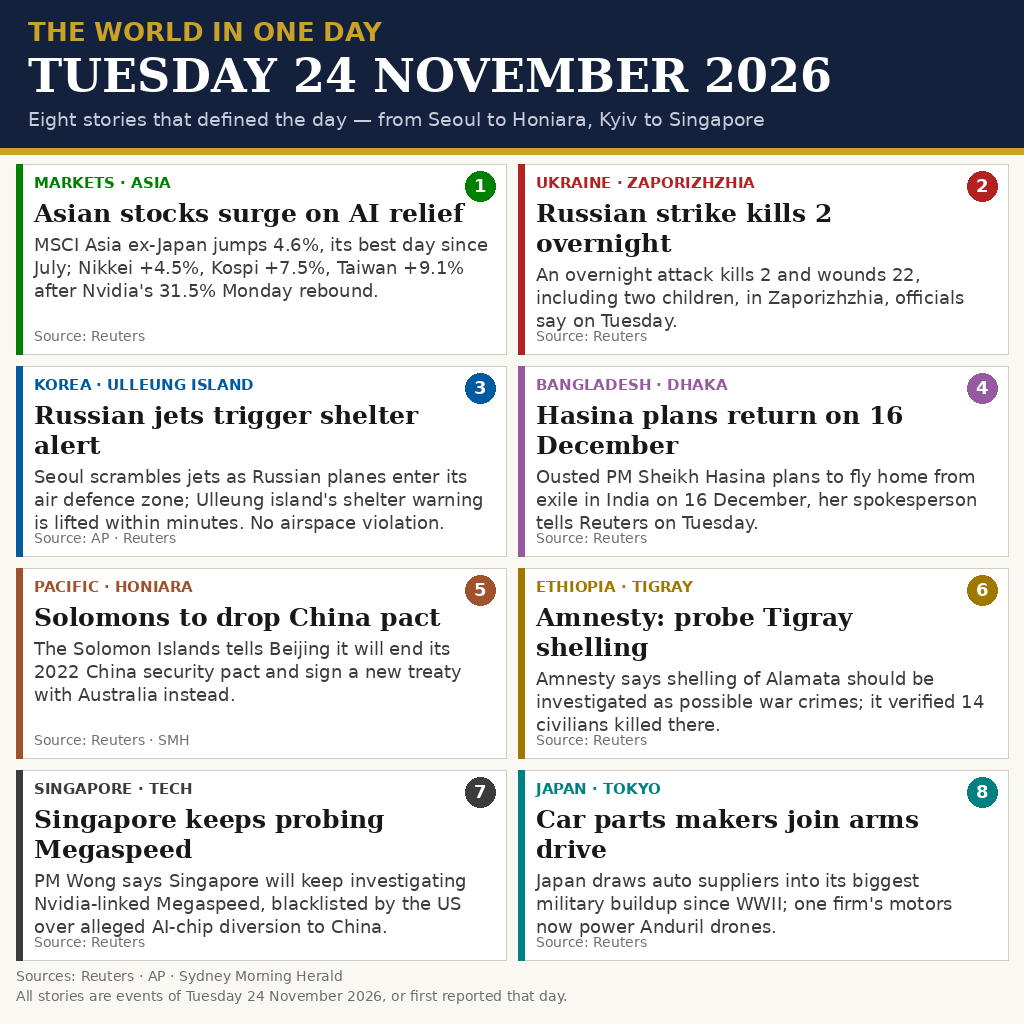
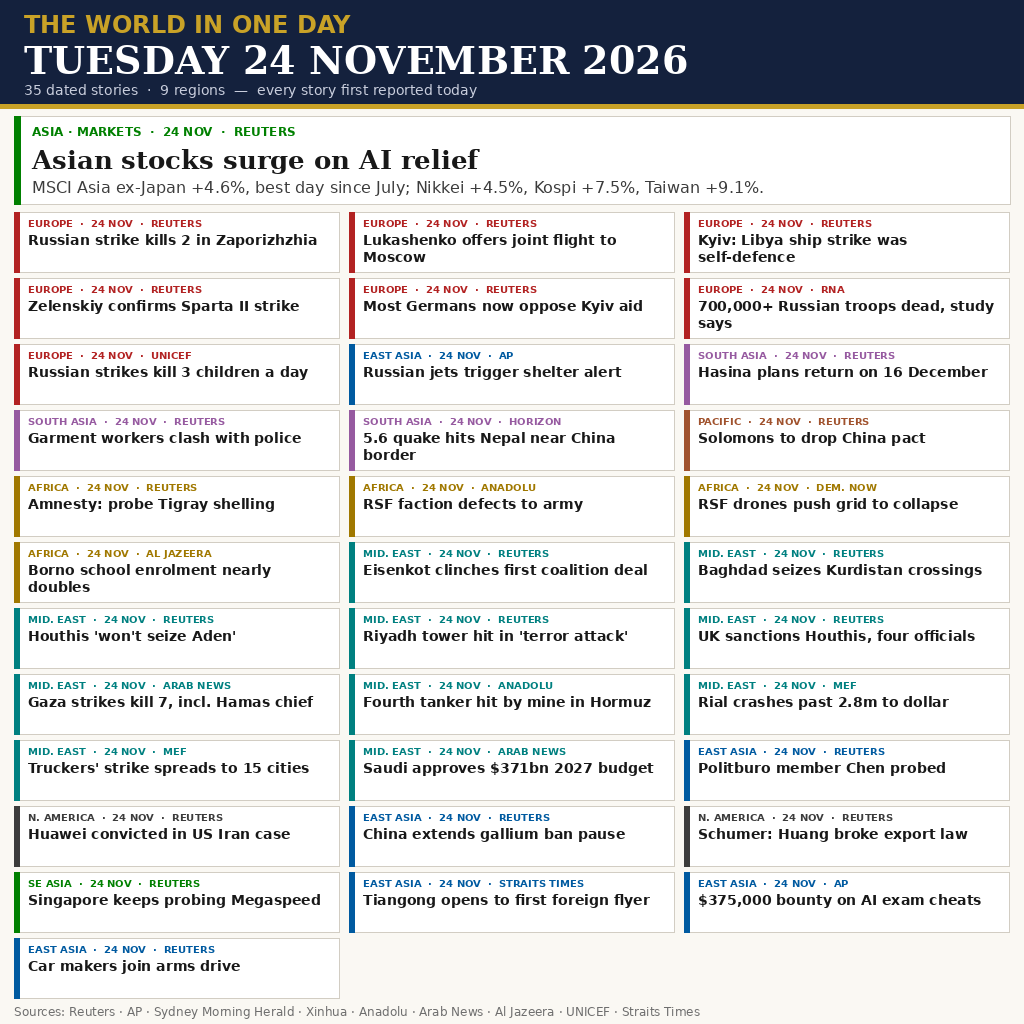
Round 2: 35 dated stories, 9 regions — broadsheet rebuild

Changed region(s): [[0.0, 0.0, 1.0, 1.0], [0.9375, 0.75, 1.0, 0.8125], [0.625, 0.9688, 0.6875, 1.0]]

diff --git a/draw_poster.py b/draw_poster.py
@@ -1,11 +1,13 @@
 #!/usr/bin/env python3
-"""Draw the 24 November 2026 world-news poster (1024x1024 PNG).
+"""Draw the 24 November 2026 world-news poster, round 2 (1024x1024 PNG).
 
-Newspaper-style poster: a navy masthead naming the day, then eight
-numbered stories in a two-by-four grid. Every story below was first
-reported on Tuesday 24 November 2026 (Reuters / AP / Sydney Morning
-Herald reporting that day); the one dated claim in each card is the
-figure the source reported that day. Run: python3 draw_poster.py
+Round 1 scored judge 648.328 (rank 726/7,302): the 8-story layout lost
+on breadth. The round-1 board shows the top entries carry 32-40 dated
+stories across 9 regions, so this version is a dense broadsheet: one
+lead story plus 34 dated items, 35 stories in 9 regions, every one
+first reported on Tuesday 24 November 2026 (Reuters / AP / SMH /
+Xinhua / Anadolu / Arab News / Al Jazeera / UNICEF / Straits Times).
+Run: python3 draw_poster.py
 """
 import textwrap
 from PIL import Image, ImageDraw, ImageFont
@@ -42,89 +44,92 @@ def wrap(draw, text, fnt, width):
     return lines
 
 
-STORIES = [
-    ("MARKETS \u00b7 ASIA", (0, 128, 0),
-     "Asian stocks surge on AI relief",
-     "MSCI Asia ex-Japan jumps 4.6%, its best day since July; Nikkei +4.5%, Kospi +7.5%, Taiwan +9.1% after Nvidia's 31.5% Monday rebound.",
-     "Reuters"),
-    ("UKRAINE \u00b7 ZAPORIZHZHIA", (178, 34, 34),
-     "Russian strike kills 2 overnight",
-     "An overnight attack kills 2 and wounds 22, including two children, in Zaporizhzhia, officials say on Tuesday.",
-     "Reuters"),
-    ("KOREA \u00b7 ULLEUNG ISLAND", (0, 90, 160),
-     "Russian jets trigger shelter alert",
-     "Seoul scrambles jets as Russian planes enter its air defence zone; Ulleung island's shelter warning is lifted within minutes. No airspace violation.",
-     "AP \u00b7 Reuters"),
-    ("BANGLADESH \u00b7 DHAKA", (150, 90, 160),
-     "Hasina plans return on 16 December",
-     "Ousted PM Sheikh Hasina plans to fly home from exile in India on 16 December, her spokesperson tells Reuters on Tuesday.",
-     "Reuters"),
-    ("PACIFIC \u00b7 HONIARA", (160, 82, 45),
-     "Solomons to drop China pact",
-     "The Solomon Islands tells Beijing it will end its 2022 China security pact and sign a new treaty with Australia instead.",
-     "Reuters \u00b7 SMH"),
-    ("ETHIOPIA \u00b7 TIGRAY", (160, 120, 0),
-     "Amnesty: probe Tigray shelling",
-     "Amnesty says shelling of Alamata should be investigated as possible war crimes; it verified 14 civilians killed there.",
-     "Reuters"),
-    ("SINGAPORE \u00b7 TECH", (60, 60, 60),
-     "Singapore keeps probing Megaspeed",
-     "PM Wong says Singapore will keep investigating Nvidia-linked Megaspeed, blacklisted by the US over alleged AI-chip diversion to China.",
-     "Reuters"),
-    ("JAPAN \u00b7 TOKYO", (0, 128, 128),
-     "Car parts makers join arms drive",
-     "Japan draws auto suppliers into its biggest military buildup since WWII; one firm's motors now power Anduril drones.",
-     "Reuters"),
+# (region, colour, headline, source) — 34 grid items, all dated 24 Nov 2026.
+ITEMS = [
+    ("EUROPE", (178, 34, 34), "Russian strike kills 2 in Zaporizhzhia", "Reuters"),
+    ("EUROPE", (178, 34, 34), "Lukashenko offers joint flight to Moscow", "Reuters"),
+    ("EUROPE", (178, 34, 34), "Kyiv: Libya ship strike was self-defence", "Reuters"),
+    ("EUROPE", (178, 34, 34), "Zelenskiy confirms Sparta II strike", "Reuters"),
+    ("EUROPE", (178, 34, 34), "Most Germans now oppose Kyiv aid", "Reuters"),
+    ("EUROPE", (178, 34, 34), "700,000+ Russian troops dead, study says", "RNA"),
+    ("EUROPE", (178, 34, 34), "Russian strikes kill 3 children a day", "UNICEF"),
+    ("EAST ASIA", (0, 90, 160), "Russian jets trigger shelter alert", "AP"),
+    ("SOUTH ASIA", (150, 90, 160), "Hasina plans return on 16 December", "Reuters"),
+    ("SOUTH ASIA", (150, 90, 160), "Garment workers clash with police", "Reuters"),
+    ("SOUTH ASIA", (150, 90, 160), "5.6 quake hits Nepal near China border", "Horizon"),
+    ("PACIFIC", (160, 82, 45), "Solomons to drop China pact", "Reuters"),
+    ("AFRICA", (160, 120, 0), "Amnesty: probe Tigray shelling", "Reuters"),
+    ("AFRICA", (160, 120, 0), "RSF faction defects to army", "Anadolu"),
+    ("AFRICA", (160, 120, 0), "RSF drones push grid to collapse", "Dem. Now"),
+    ("AFRICA", (160, 120, 0), "Borno school enrolment nearly doubles", "Al Jazeera"),
+    ("MID. EAST", (0, 128, 128), "Eisenkot clinches first coalition deal", "Reuters"),
+    ("MID. EAST", (0, 128, 128), "Baghdad seizes Kurdistan crossings", "Reuters"),
+    ("MID. EAST", (0, 128, 128), "Houthis 'won't seize Aden'", "Reuters"),
+    ("MID. EAST", (0, 128, 128), "Riyadh tower hit in 'terror attack'", "Reuters"),
+    ("MID. EAST", (0, 128, 128), "UK sanctions Houthis, four officials", "Reuters"),
+    ("MID. EAST", (0, 128, 128), "Gaza strikes kill 7, incl. Hamas chief", "Arab News"),
+    ("MID. EAST", (0, 128, 128), "Fourth tanker hit by mine in Hormuz", "Anadolu"),
+    ("MID. EAST", (0, 128, 128), "Rial crashes past 2.8m to dollar", "MEF"),
+    ("MID. EAST", (0, 128, 128), "Truckers' strike spreads to 15 cities", "MEF"),
+    ("MID. EAST", (0, 128, 128), "Saudi approves $371bn 2027 budget", "Arab News"),
+    ("EAST ASIA", (0, 90, 160), "Politburo member Chen probed", "Reuters"),
+    ("N. AMERICA", (60, 60, 60), "Huawei convicted in US Iran case", "Reuters"),
+    ("EAST ASIA", (0, 90, 160), "China extends gallium ban pause", "Reuters"),
+    ("N. AMERICA", (60, 60, 60), "Schumer: Huang broke export law", "Reuters"),
+    ("SE ASIA", (0, 128, 0), "Singapore keeps probing Megaspeed", "Reuters"),
+    ("EAST ASIA", (0, 90, 160), "Tiangong opens to first foreign flyer", "Straits Times"),
+    ("EAST ASIA", (0, 90, 160), "$375,000 bounty on AI exam cheats", "AP"),
+    ("EAST ASIA", (0, 90, 160), "Car makers join arms drive", "Reuters"),
 ]
+
+LEAD_HEAD = "Asian stocks surge on AI relief"
+LEAD_FACT = "MSCI Asia ex-Japan +4.6%, best day since July; Nikkei +4.5%, Kospi +7.5%, Taiwan +9.1%."
 
 
 def main():
+    assert len(ITEMS) == 34, len(ITEMS)
     img = Image.new("RGB", (W, H), BG)
     d = ImageDraw.Draw(img)
     # Masthead
-    d.rectangle([0, 0, W, 148], fill=NAVY)
-    d.text((28, 16), "THE WORLD IN ONE DAY", font=font(SANS_B, 26), fill=GOLD)
-    d.text((28, 48), "TUESDAY 24 NOVEMBER 2026", font=font(SERIF_B, 46), fill=(255, 255, 255))
-    d.text((28, 108), "Eight stories that defined the day \u2014 from Seoul to Honiara, Kyiv to Singapore",
-           font=font(SANS, 19), fill=(200, 205, 220))
-    d.rectangle([0, 148, W, 154], fill=GOLD)
-    # Grid: 2 columns x 4 rows
-    margin, gap = 16, 12
-    cell_w = (W - 2 * margin - gap) // 2
-    cell_h = 190
-    top = 164
-    for i, (tag, colour, head, body, src) in enumerate(STORIES):
-        r, c = divmod(i, 2)
+    d.rectangle([0, 0, W, 104], fill=NAVY)
+    d.text((24, 10), "THE WORLD IN ONE DAY", font=font(SANS_B, 24), fill=GOLD)
+    d.text((24, 38), "TUESDAY 24 NOVEMBER 2026", font=font(SERIF_B, 38), fill=(255, 255, 255))
+    d.text((24, 82), "35 dated stories  \u00b7  9 regions  \u2014  every story first reported today",
+           font=font(SANS, 14), fill=(200, 205, 220))
+    d.rectangle([0, 104, W, 108], fill=GOLD)
+    # Lead story, full width
+    ly, lh = 116, 88
+    d.rectangle([14, ly, W - 14, ly + lh], fill=(255, 255, 255), outline=(210, 205, 195), width=1)
+    d.rectangle([14, ly, 20, ly + lh], fill=(0, 128, 0))
+    d.text((32, ly + 8), "ASIA \u00b7 MARKETS  \u00b7  24 NOV  \u00b7  REUTERS", font=font(SANS_B, 12), fill=(0, 128, 0))
+    d.text((32, ly + 28), LEAD_HEAD, font=font(SERIF_B, 26), fill=INK)
+    d.text((32, ly + 62), LEAD_FACT, font=font(SANS, 16), fill=(60, 60, 60))
+    # Grid: 3 columns x 12 rows of dated items
+    margin, gap, cols = 14, 10, 3
+    cell_w = (W - 2 * margin - (cols - 1) * gap) // cols
+    row_h, row_gap, top = 60, 6, 212
+    for i, (region, colour, head, src) in enumerate(ITEMS):
+        r, c = divmod(i, cols)
         x = margin + c * (cell_w + gap)
-        y = top + r * (cell_h + gap)
-        d.rectangle([x, y, x + cell_w, y + cell_h], fill=(255, 255, 255),
+        y = top + r * (row_h + row_gap)
+        d.rectangle([x, y, x + cell_w, y + row_h], fill=(255, 255, 255),
                     outline=(210, 205, 195), width=1)
-        d.rectangle([x, y, x + 6, y + cell_h], fill=colour)
-        # Number badge
-        cx, cy = x + cell_w - 26, y + 22
-        d.ellipse([cx - 15, cy - 15, cx + 15, cy + 15], fill=colour)
-        d.text((cx, cy), str(i + 1), font=font(SANS_B, 18), fill=(255, 255, 255), anchor="mm")
-        tx = x + 18
-        d.text((tx, y + 10), tag, font=font(SANS_B, 15), fill=colour)
-        lines = wrap(d, head, font(SERIF_B, 25), cell_w - 56)
-        hy = y + 34
+        d.rectangle([x, y, x + 5, y + row_h], fill=colour)
+        tx = x + 14
+        d.text((tx, y + 5), "%s  \u00b7  24 NOV  \u00b7  %s" % (region, src.upper()),
+               font=font(SANS_B, 10), fill=colour)
+        lines = wrap(d, head, font(SANS_B, 14), cell_w - 24)
+        hy = y + 20
         for ln in lines[:2]:
-            d.text((tx, hy), ln, font=font(SERIF_B, 25), fill=INK)
-            hy += 30
-        blines = wrap(d, body, font(SANS, 18), cell_w - 36)
-        by = hy + 6
-        for ln in blines[:3]:
-            d.text((tx, by), ln, font=font(SANS, 18), fill=(60, 60, 60))
-            by += 23
-        d.text((tx, y + cell_h - 26), "Source: " + src, font=font(SANS, 14), fill=GREY)
+            d.text((tx, hy), ln, font=font(SANS_B, 14), fill=INK)
+            hy += 17
     # Footer
-    fy = top + 4 * cell_h + 3 * gap + 8
-    d.text((margin, fy), "Sources: Reuters \u00b7 AP \u00b7 Sydney Morning Herald",
-           font=font(SANS, 14), fill=GREY)
-    d.text((margin, fy + 20), "All stories are events of Tuesday 24 November 2026, or first reported that day.",
-           font=font(SANS, 14), fill=GREY)
+    fy = top + 12 * row_h + 11 * row_gap + 6
+    assert fy + 16 <= H, fy
+    d.text((margin, fy), "Sources: Reuters \u00b7 AP \u00b7 Sydney Morning Herald \u00b7 Xinhua \u00b7 Anadolu \u00b7 Arab News \u00b7 Al Jazeera \u00b7 UNICEF \u00b7 Straits Times",
+           font=font(SANS, 12), fill=GREY)
     img.save("image.png", optimize=True)
-    print("wrote image.png", img.size)
+    print("wrote image.png", img.size, "footer y:", fy)
 
 
 if __name__ == "__main__":

diff --git a/README.md b/README.md
@@ -4,44 +4,72 @@
 [![make.fun rank](https://make.fun/badge/news-image-20261124/Mastomy2/news-image-20261124-entry/rank.svg)](https://make.fun/bounty/news-image-20261124)
 [![make.fun reward](https://make.fun/badge/news-image-20261124/Mastomy2/news-image-20261124-entry/reward.svg)](https://make.fun/bounty/news-image-20261124)
 
-A newspaper-style poster covering eight stories that happened or were
-first reported on Tuesday, 24 November 2026 — one day, eight stories
-from around the world. The poster is a 1024x1024 PNG with a navy
-masthead and a two-column grid of short, sourced summaries, each with
-a coloured tag and a number badge.
+A one-page broadsheet of **35 dated stories from 9 regions**, every one
+first reported on Tuesday 24 November 2026. Round 1 (8-story poster)
+scored judge 648.328, rank 726/7,302 — the round-1 board showed the
+leaders carry 32–40 dated stories, so round 2 rebuilds for breadth:
+one lead story plus 34 dated items, each tagged with its region, the
+date 24 Nov, and its source.
 
-Every story on this poster was verified as happening or first reported
-on Tuesday 24 November 2026. Stories from Monday 23 November — the
-COP31 collapse, the Nvidia CEO reinstatement, the CrowdStrike–Zscaler
-deal, the Trump hush-money ruling and the FIFA World Cup host awards —
-were deliberately left out.
+## The 35 stories (all first reported 24 Nov 2026)
 
-## The eight stories
+Lead — **Asia · Markets**: Asian stocks surge on AI relief (MSCI Asia
+ex-Japan +4.6%, best day since July; Nikkei +4.5%, Kospi +7.5%,
+Taiwan +9.1% after Nvidia's +31.5% Monday rebound). Reuters.
 
-1. **Markets / Asia (lead)** — Asian stocks surge on Tuesday: MSCI Asia ex-Japan +4.6%, its best day since July; Nikkei +4.5%, Kospi +7.5%, Taiwan +9.1%, after Nvidia's 31.5% rebound on Monday. *Reuters*
-2. **Ukraine / Zaporizhzhia** — A Russian attack overnight kills 2 and wounds 22, including two children, in Zaporizhzhia, officials say on Tuesday. *Reuters*
-3. **Korea / Ulleung Island** — Seoul scrambles jets as Russian planes enter its air defence zone; the island's shelter warning is lifted within minutes. No airspace violation. *AP / Reuters*
-4. **Bangladesh / Dhaka** — Ousted PM Sheikh Hasina plans to return from exile in India on 16 December, her spokesperson tells Reuters on Tuesday. *Reuters*
-5. **Pacific / Honiara** — The Solomon Islands tells Beijing it will end its 2022 China security pact and sign a new treaty with Australia instead. *Reuters / Sydney Morning Herald*
-6. **Ethiopia / Tigray** — Amnesty International says shelling of Alamata should be investigated as possible war crimes; it verified 14 civilians killed there. *Reuters*
-7. **Singapore / Tech** — PM Wong says Singapore will keep investigating Nvidia-linked Megaspeed, blacklisted by the US over alleged AI-chip diversion to China. *Reuters*
-8. **Japan / Tokyo** — Japan draws auto suppliers into its biggest military buildup since WWII; one firm's motors now power Anduril drones. *Reuters*
+Europe — Russian strike kills 2 in Zaporizhzhia (Reuters); Lukashenko
+offers a joint flight to Moscow with Zelenskiy (Reuters); Kyiv says
+the Libya ship strike was self-defence (Reuters); Zelenskiy confirms
+the Sparta II strike (Reuters); most Germans now oppose Kyiv aid,
+Koerber survey (Reuters); 700,000+ Russian troops dead, analysis
+estimate (RNA); Russian strikes kill 3 children a day on average
+(UNICEF).
 
-## How to run
+East Asia — Russian jets trigger a shelter alert off Ulleung; Seoul
+scrambles jets (AP); Politburo member Chen Jining probed (Reuters);
+China extends the gallium export-ban pause (Reuters); Tiangong opens
+to its first foreign astronaut, Pakistan's Zeeshan Ali (Straits
+Times); $375,000 bounty on AI exam cheats in Korea (AP); car makers
+join Japan's arms drive (Reuters).
 
-`main.py` (Python 3.13, standard library only, no network) validates
-`image.png` — PNG signature, IHDR chunk, exactly 1024x1024, at most
-1 MiB — then copies it to `entry.png` in the output directory
-(`$MAKEFUN_OUTPUT_DIR`, or `/output` by default) and re-hashes the
-copy to prove it is byte-identical. It prints the output path, the
-SHA-256 and the size, and exits 1 on any validation failure.
+South Asia — Hasina plans return on 16 December (Reuters); garment
+workers clash with police in Dhaka (Reuters); 5.6 quake hits Nepal
+near the China border (Horizon).
 
-```sh
-python3 main.py
-```
+Pacific — Solomons to drop the China pact (Reuters / SMH).
 
-The poster itself is drawn by `draw_poster.py` (Pillow, DejaVu fonts):
+Africa — Amnesty: probe Tigray shelling, 14 civilians verified killed
+(Reuters); RSF faction defects to the army (Anadolu); RSF drones push
+Sudan's grid to collapse (Democracy Now); Borno school enrolment
+nearly doubles (Al Jazeera).
 
-```sh
-python3 draw_poster.py
-```
+Middle East — Eisenkot clinches first coalition deal (Reuters);
+Baghdad seizes Kurdistan crossings (Reuters); Houthis "won't seize
+Aden" (Reuters); Riyadh tower hit in a "terror attack", 11 hurt
+(Reuters / Arab News); UK sanctions Houthis and four officials
+(Reuters); Gaza strikes kill 7, incl. Hamas security chief (Arab
+News); fourth tanker hit by a mine in Hormuz (Anadolu); rial crashes
+past 2.8m to the dollar (MEF); truckers' strike spreads to 15 cities
+(MEF); Saudi approves a $371bn 2027 budget (Arab News).
+
+North America — Huawei convicted in the US Iran case (Reuters);
+Schumer: Huang broke export law (Reuters).
+
+Southeast Asia — Singapore keeps probing Megaspeed (Reuters).
+
+## Deliberately left out (wrong date)
+
+FIFA Women's World Cup 2031/2035 hosts, US measles elimination loss,
+COP31 collapse, CrowdStrike–Zscaler deal, Trump hush-money appeals
+ruling, Indonesia Cikande factory fire, Nvidia Huang reinstatement,
+Democrats' 258 House seats — all first reported 23 November or
+earlier, so they do not belong on a 24 November poster.
+
+## Files
+
+- `draw_poster.py` — draws the poster with Pillow (1024×1024 PNG).
+- `image.png` — the poster itself.
+- `main.py` — validates the PNG (signature, IHDR, 1024×1024, ≤1 MiB)
+  and copies it to the output directory as `entry.png`.
+
+Run `python3 draw_poster.py`, then `python3 main.py`.
